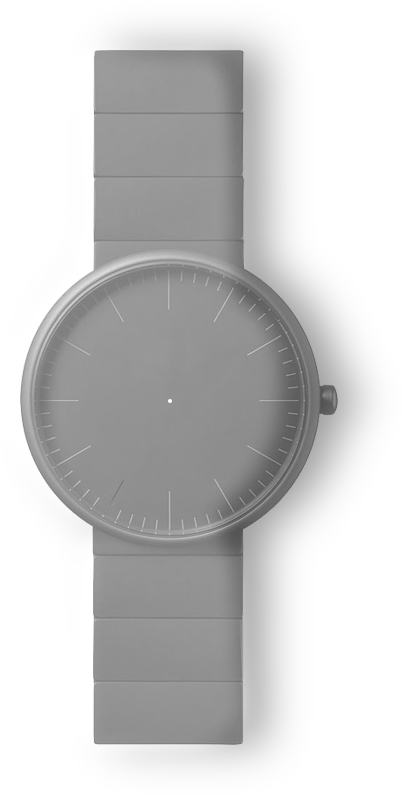
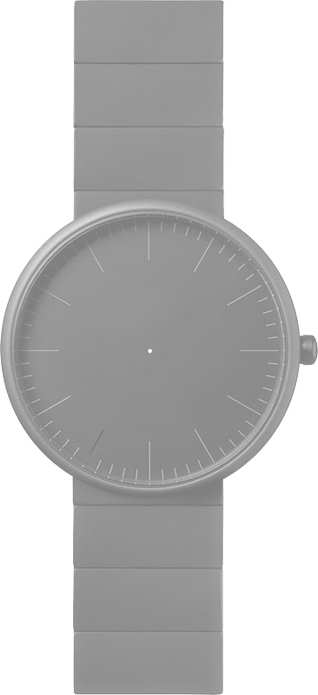
fix watch position

Changed region(s): [[0.0, 0.0, 1.0, 1.0], [0.2264, 0.7856, 0.2547, 0.846], [0.2264, 0.8763, 0.2547, 0.9065]]

diff --git a/source/styles/components/clock/mobile.scss b/source/styles/components/clock/mobile.scss
@@ -46,9 +46,9 @@
         top: 0;
     }
     .watch {
-        background: url('../images/watch.png') no-repeat 60.5%;
+        background: url('../images/watch.png') no-repeat center;
         background-size: 47%;
-        margin: 34% auto 0;
+        margin: 16% auto 0;
         position: absolute;
         height: 100%;
         width: 100%;
@@ -57,11 +57,11 @@
     .minutes-container,
     .seconds-container {
         position: absolute;
+        left: px(-35);
         margin: auto;
         bottom: 0;
-        right: 0;
         top: .5%;
-        left: 4%;
+        right: 0;
         width: 300px;
         height: 300px;
         display: inline-flex;
@@ -105,15 +105,15 @@
     }
     .hours-container {
         animation: rotate 43200s infinite linear;
-        zoom: .45;
+        zoom: .55;
     }
     .minutes-container {
         transition: transform 0.3s cubic-bezier(.4,2.08,.55,.44);
-        zoom: .4;
+        zoom: .5;
     }
     .seconds-container {
         transition: transform 0.2s cubic-bezier(.4,2.08,.55,.44);
-        zoom: .45;
+        zoom: .55;
     }
     @keyframes rotate { 100% { transform: rotateZ(360deg); } }
 

diff --git a/source/styles/components/clock/desktop.scss b/source/styles/components/clock/desktop.scss
@@ -45,7 +45,7 @@
         top: 0;
     }
     .watch {
-        background: url('../images/watch.png') no-repeat 56%;
+        background: url('../images/watch.png') no-repeat center;
         position: absolute;
         margin: 0 auto;
         height: 100%;
@@ -55,11 +55,11 @@
     .minutes-container,
     .seconds-container {
         position: absolute;
+        left: px(-35);
         margin: auto;
         bottom: 0;
-        right: 0;
         top: 0;
-        left: 1%;
+        right: 0;
         width: 300px;
         height: 300px;
         display: inline-flex;

diff --git a/source/styles/components/clock/mediaQueries/tabletPortrait.scss b/source/styles/components/clock/mediaQueries/tabletPortrait.scss
@@ -19,16 +19,12 @@
 }
 
 // ----- watch -----
+.seconds-container, .hours-container { zoom: .95; }
+.minutes-container { zoom: .9; }
 .watch {
-    background: url('../images/watch.png') no-repeat 55.5%;
     background-size: 40%;
-    margin: 15% auto 0;
+    margin: 10% auto 0;
 }
-.hours-container, .minutes-container,
-.seconds-container { left: 0; }
-.hours-container { zoom: .75; }
-.minutes-container { zoom: .7; }
-.seconds-container { zoom: .75; }
 
 // ----- bg letter -----
 .bg-letter { background-size: 52%; }

diff --git a/source/styles/components/clock/mediaQueries/tabletLandscape.scss b/source/styles/components/clock/mediaQueries/tabletLandscape.scss
@@ -19,16 +19,12 @@
 }
 
 // ----- watch -----
+.seconds-container, .hours-container { zoom: .95; }
+.minutes-container { zoom: .9; }
 .watch {
-    background: url('../images/watch.png') no-repeat 55.5%;
     background-size: 40%;
     margin: 10% auto 0;
 }
-.hours-container, .minutes-container,
-.seconds-container { left: 0; }
-.hours-container { zoom: .75; }
-.minutes-container { zoom: .7; }
-.seconds-container { zoom: .75; }
 
 // ----- bg letter -----
 .bg-letter { background-size: 52%; }

diff --git a/source/styles/components/clock/mediaQueries/desktopMega.scss b/source/styles/components/clock/mediaQueries/desktopMega.scss
@@ -1,10 +1,5 @@
 @import '../desktop';
 
-// ----- watch -----
-.watch { background: url('../images/watch.png') no-repeat 52.5%; }
-.hours-container, .minutes-container,
-.seconds-container { left: .5%; }
-
 // ----- title -----
 .title .word {
     span { font-size: px(116); }

diff --git a/source/styles/components/clock/mediaQueries/desktopHD.scss b/source/styles/components/clock/mediaQueries/desktopHD.scss
@@ -1,6 +1,1 @@
 @import '../desktop';
-
-// ----- watch -----
-.watch { background: url('../images/watch.png') no-repeat 53%; }
-.hours-container, .minutes-container,
-.seconds-container { left: .5%; }

diff --git a/source/styles/components/clock/mediaQueries/desktopWide.scss b/source/styles/components/clock/mediaQueries/desktopWide.scss
@@ -1,6 +1,1 @@
 @import '../desktop';
-
-// ----- watch -----
-.watch { background: url('../images/watch.png') no-repeat 54%; }
-.hours-container, .minutes-container,
-.seconds-container { left: 1%; }
